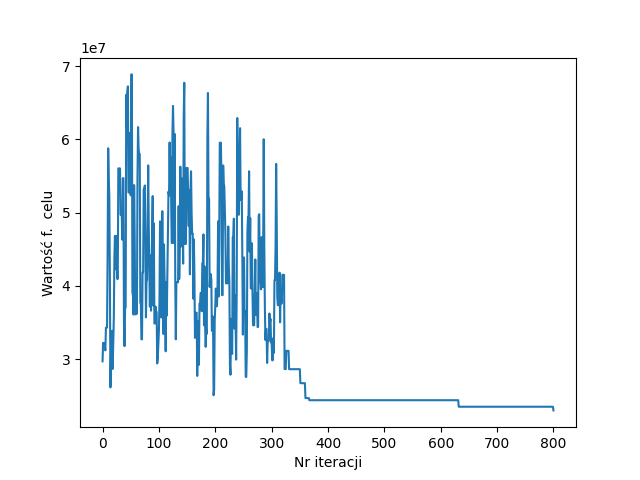
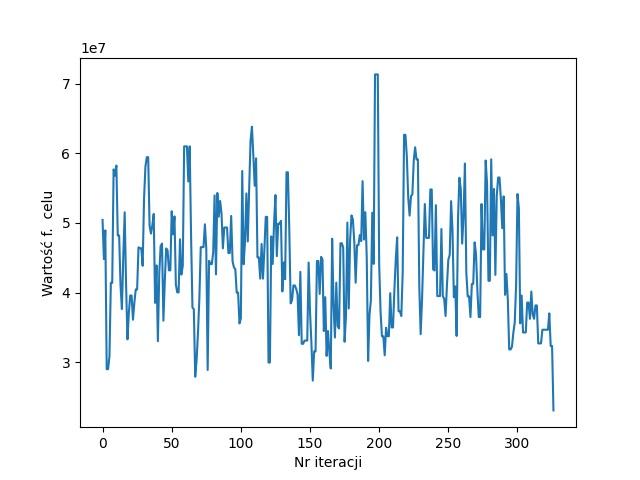
L fix

diff --git a/src/main.py b/src/main.py
@@ -97,7 +97,7 @@ def calc_obj_function_ideal(blocks, connections, alpha, beta):
     A = 0
     for block in blocks:
         A += block.width * block.height
-    L = 0
+    L = calc_connection_length(blocks, connections)
 
     return alpha * A + beta * L
 
